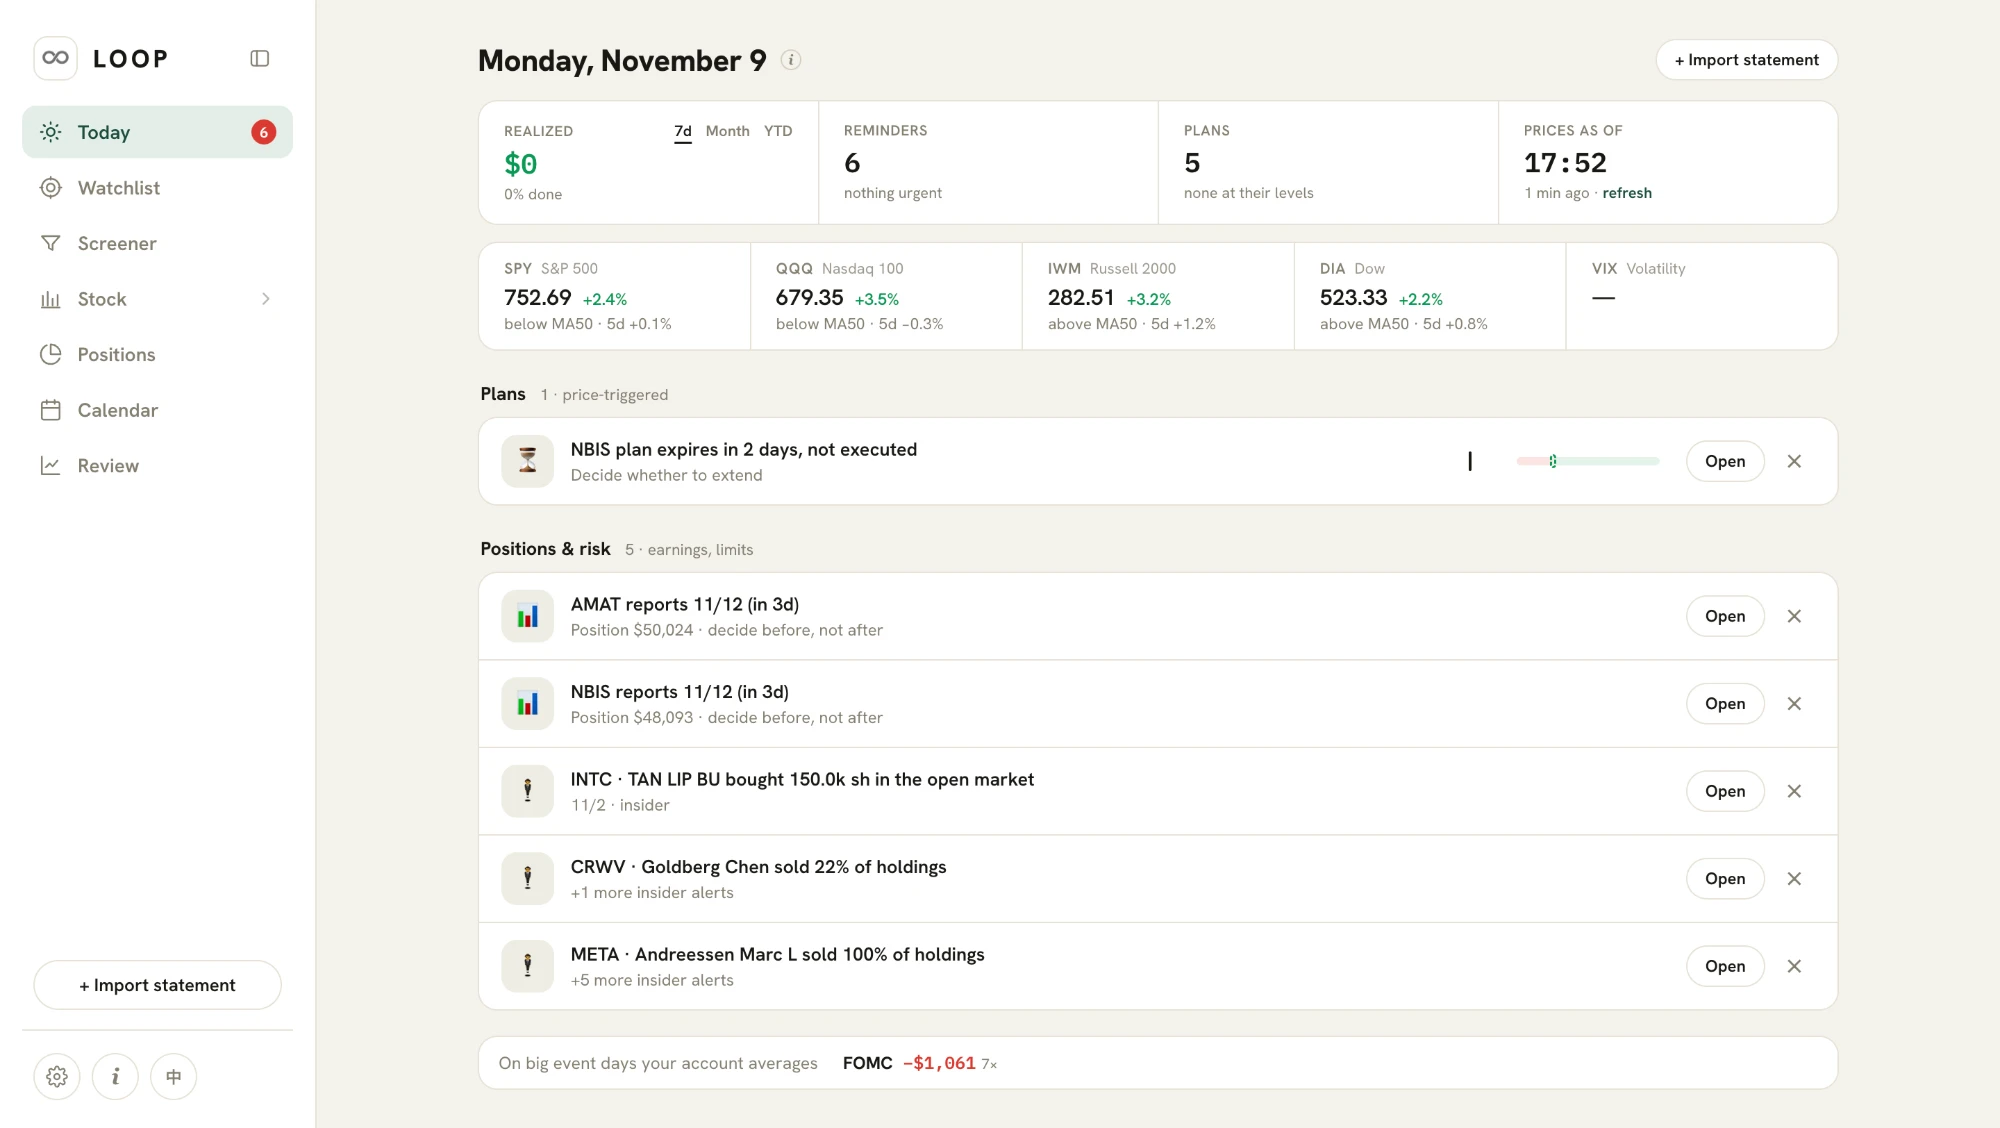
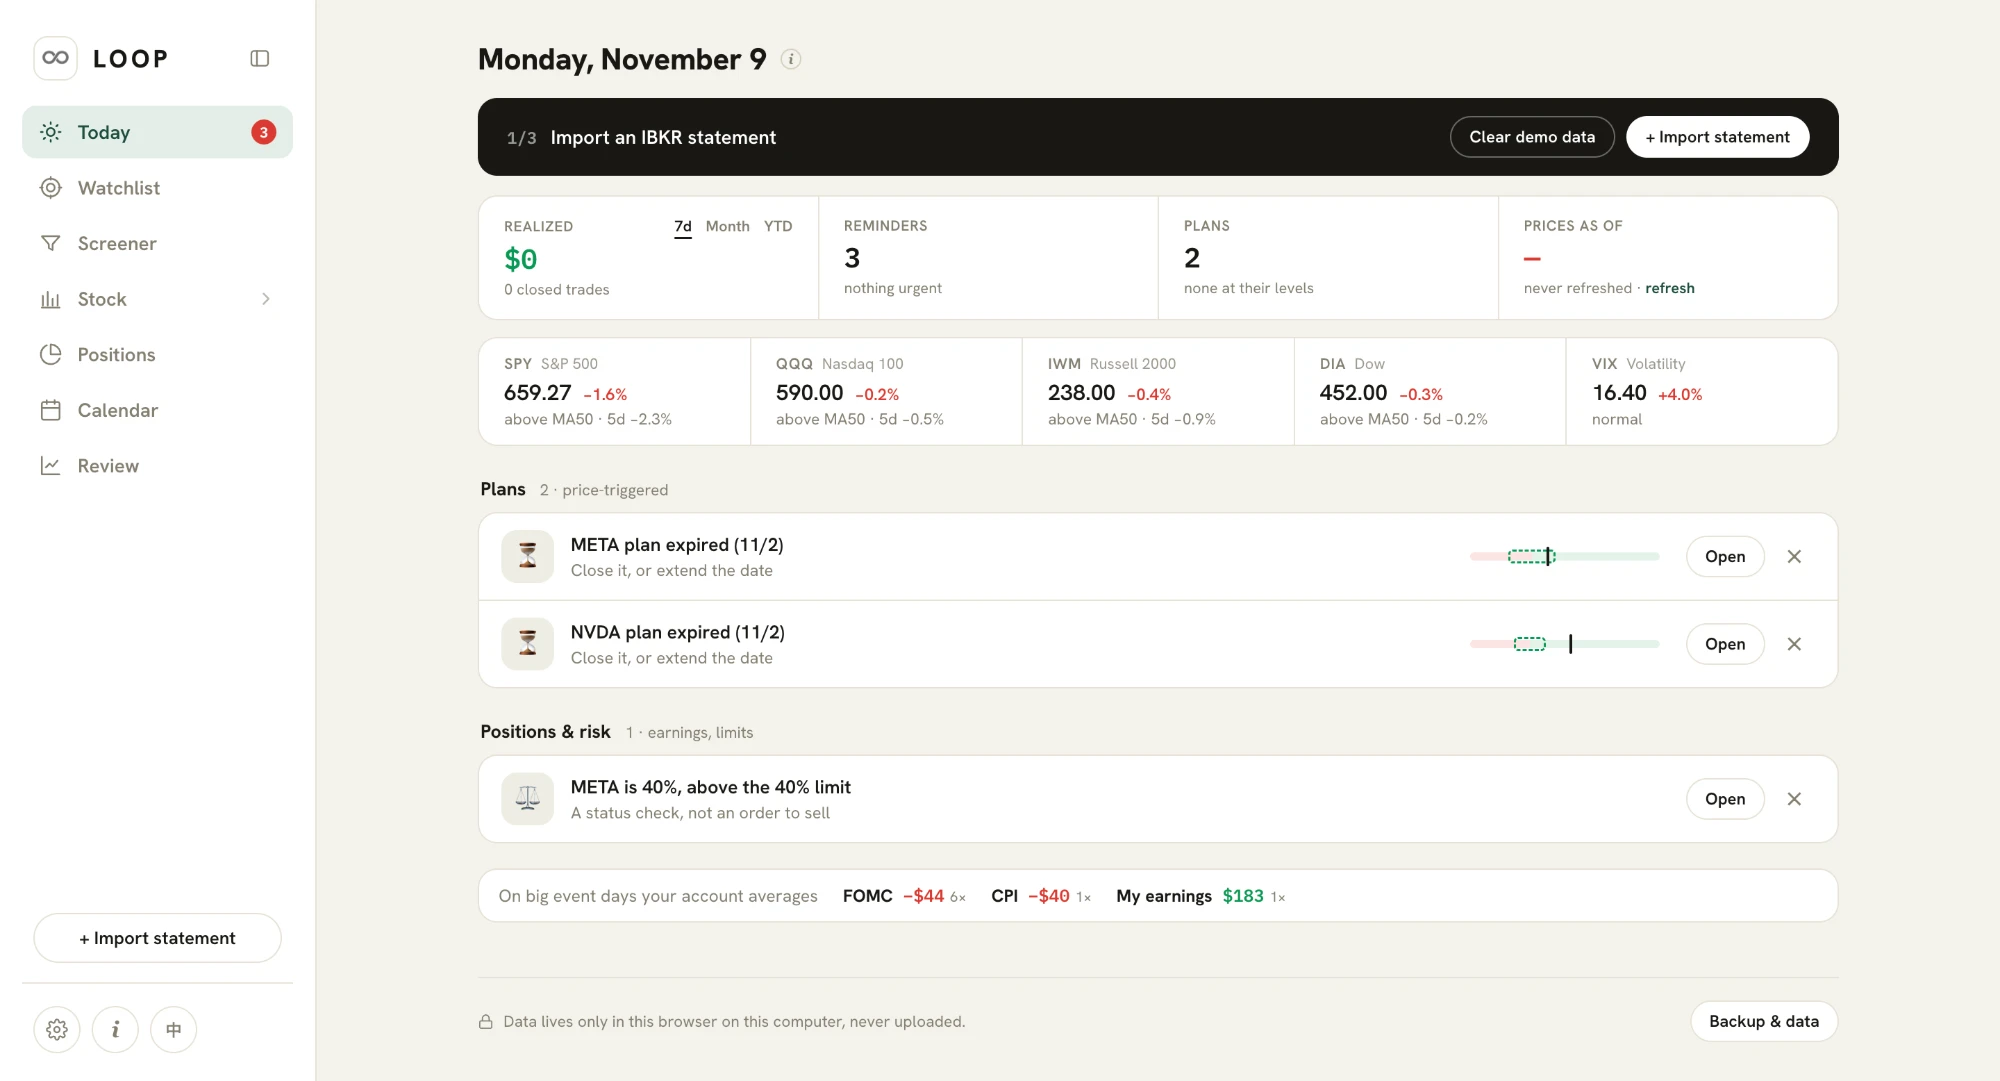
LOOP hero: Today screen with demo data

diff --git a/loop/index.html b/loop/index.html
@@ -689,7 +689,7 @@ input[type=range]:focus-visible{outline:3px solid var(--lilac);outline-offset:4p
         <a class="ghbtn rise d3" href="https://github.com/valennnnqiu/loop" target="_blank" rel="noopener"><svg viewBox="0 0 16 16" width="18" height="18" aria-hidden="true"><path fill="currentColor" d="M8 0C3.58 0 0 3.58 0 8a8 8 0 0 0 5.47 7.59c.4.07.55-.17.55-.38v-1.33c-2.23.48-2.7-1.07-2.7-1.07-.36-.92-.89-1.17-.89-1.17-.73-.5.06-.49.06-.49.8.06 1.23.83 1.23.83.72 1.22 1.87.87 2.33.66.07-.52.28-.87.5-1.07-1.78-.2-3.64-.89-3.64-3.95 0-.87.31-1.59.82-2.15-.08-.2-.36-1.02.08-2.12 0 0 .67-.21 2.2.82a7.6 7.6 0 0 1 4 0c1.53-1.04 2.2-.82 2.2-.82.44 1.1.16 1.92.08 2.12.51.56.82 1.27.82 2.15 0 3.07-1.87 3.75-3.65 3.95.29.25.54.73.54 1.48v2.2c0 .21.15.46.55.38A8 8 0 0 0 16 8c0-4.42-3.58-8-8-8z"/></svg>View on GitHub<span aria-hidden="true">→</span></a>
       </div>
       <div class="hero-art">
-        <div class="panel"><img class="heroimg" src="../images/loop/hero-today.webp" alt="The LOOP Today screen: realized profit, reminders, plans, market indices, a plan about to expire, and position and earnings alerts" width="2000" height="1128"></div>
+        <div class="panel"><img class="heroimg" src="../images/loop/hero-today.webp" alt="The LOOP Today screen with demo data: an import banner, realized profit, reminders, plans, market indices, two expired plans and a position limit alert" width="2000" height="1081"></div>
         <span class="sticker s1 pop">$1k sponsored</span>
         <span class="sticker s2 pop">For high-risk traders</span>
       </div>
